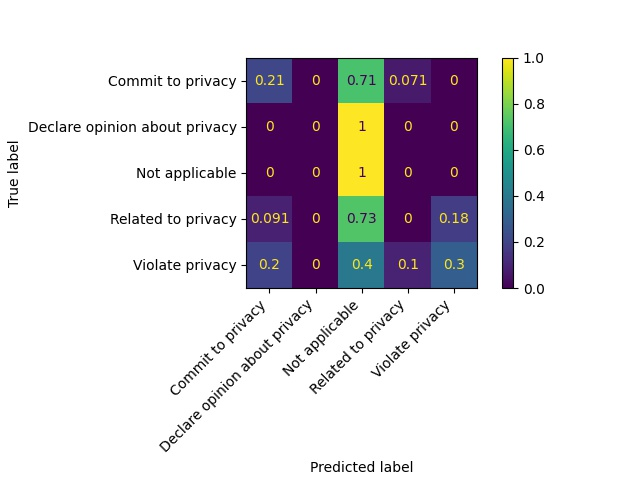
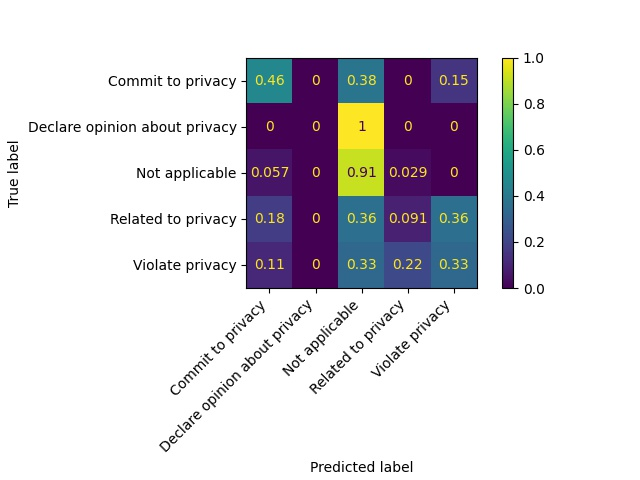
gridsearchCV looking for best hyperparameters lr 0.5 n est 100 dev

diff --git a/AIclassifier.py b/AIclassifier.py
@@ -148,20 +148,21 @@ adaclassifier = AdaBoostClassifier(n_estimators=100, learning_rate=0.5) # n_est 
 # FLAG - CHECK WHICH CONFIGURATIONS SHOULD BE HERE - checked
 
 # Choosing best hyperparameters
-#params = [{'n_estimators': [25, 50, 75, 100, 200, 300], 'learning_rate': [0.5,0.75,0.9,1,1.1,1.2]}]
-#classifier = GridSearchCV(adaclassifier, params)
+params = [{'n_estimators': [25, 50, 75, 100, 200, 300], 'learning_rate': [0.5,0.75,0.9,1,1.1,1.2]}]
+classifier = GridSearchCV(adaclassifier, params)
 
 
 # Training
-model = adaclassifier.fit(train_matrix_array, train_labels_primary) 
-#classifier.fit(train_matrix_array, train_labels_primary) 
+#model = adaclassifier.fit(train_matrix_array, train_labels_primary) 
+classifier.fit(train_matrix_array, train_labels_primary) 
 #print(classifier.best_params_)
 # DECISION TREE, WRONG FUNCTION, DELETE IT
 #decision = adaclassifier.decision_function(train_matrix_array)
 #print(decision)
 
 # Predicting
-predictions = model.predict(test_matrix_array)
+#predictions = model.predict(dev_matrix_array)
+predictions = classifier.predict(dev_matrix_array)
 #predictions = classifier.predict(test_matrix_array)
 
 # casually printing results
@@ -176,21 +177,21 @@ pred_list = [pred for pred in predictions]
 labels=[1,3,5,4,2]
 path='output/AI Classifier/1Label_confusion_matrix_NormTrue.jpg'
 display_labels=['Commit to privacy', 'Declare opinion about privacy','Not applicable','Related to privacy','Violate privacy']
-#create_confusion_matrix(dev_list, pred_list, "true", path, labels, display_labels)
-create_confusion_matrix(test_list, pred_list, "true", path, labels, display_labels)
+create_confusion_matrix(dev_list, pred_list, "true", path, labels, display_labels)
+#create_confusion_matrix(test_list, pred_list, "true", path, labels, display_labels)
 path='output/AI Classifier/1Label_confusion_matrix_NonNorm.jpg'
-#create_confusion_matrix(dev_list, pred_list, None, path, labels, display_labels)
-create_confusion_matrix(test_list, pred_list, None, path, labels, display_labels)
+create_confusion_matrix(dev_list, pred_list, None, path, labels, display_labels)
+#create_confusion_matrix(test_list, pred_list, None, path, labels, display_labels)
 
 # FLAG - CHECK IF CONFUSION MATRIX IS CORRECT FOR EVERY LABEL
 
-#path='output/AI Classifier/1labelPredictionsStatsDev.txt'
-path='output/AI Classifier/1labelPredictionsStatsTest.txt'
+path='output/AI Classifier/1labelPredictionsStatsDev.txt'
+#path='output/AI Classifier/1labelPredictionsStatsTest.txt'
 os.makedirs(os.path.dirname(path), exist_ok=True)
 with open(path, 'w') as file:
     print("Performance measures\n", file=file)
-#write_output_stats_file(path, "Dev", dev_labels_primary, predictions, labels)
-write_output_stats_file(path, "Test", test_labels_primary, predictions, labels)
+write_output_stats_file(path, "Dev", dev_labels_primary, predictions, labels)
+#write_output_stats_file(path, "Test", test_labels_primary, predictions, labels)
 
 # TO DO: WRITE PREDICTIONS JSON FILE -> LEARN HOW TO TRANSFORM ADABOOST OUTPUT IN DICT ( LIST OF ({"text":sentence['text'], "label":label}))
 #write_predictions_file("Dev", dev_pred_dict)
@@ -261,7 +262,7 @@ write_output_stats_file(path, "Test", test_labels_primary, predictions, labels)
 # TEST 2
 #"for loop"
 
-# gridsearchCV
+# gridsearchCV  ---- lr 0.5, n estimators 1
 # TEST 3
 
 # features importance
